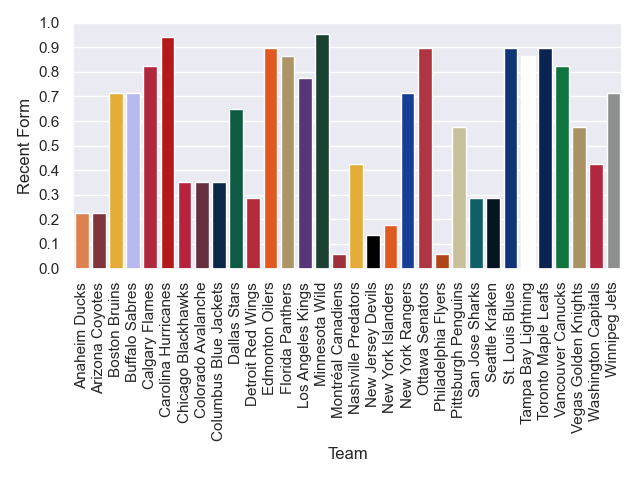
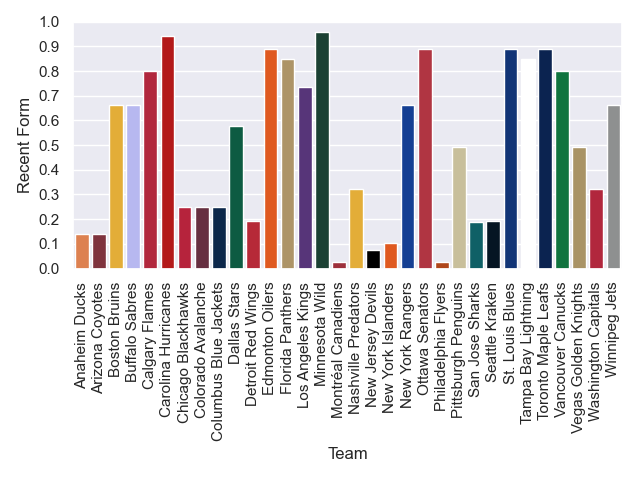
Update Recent form metric to use dynamic sigmoid. Update output files with correct spelling of Montreal

diff --git a/TeamEngine.py b/TeamEngine.py
@@ -15,7 +15,7 @@ from CSV_Writer import *
 from Metrics.Strength_of_Schedule import *
 from Metrics.Win_Rating import *
 from Metrics.Scoring_Rating import *
-from Metrics.Special_Teams import get_special_teams_dict, special_teams_combine
+from Metrics.Special_Teams import special_teams_get_dict, special_teams_combine
 from Metrics.Clutch import *
 from Metrics.Recent_Form import *
 from Metrics.Sigmoid_Correction import apply_sigmoid_correction
@@ -181,6 +181,14 @@ def calculate_strenght_of_schedule() -> None:
         ["Team", "Strength of Schedule"], 1.0, 0.0, sigmiod_ticks,
         "Graphs/Strength_of_Schedule/strenght_of_schedule_final.png")
 
+    # update the trend file
+    update_trend_file("Output_Files/Trend_Files/StrengthOfSchedule.csv",
+        strength_of_schedule)
+    plot_trend_set("Output_Files/Trend_Files/StrengthOfSchedule.csv",
+        ["Rating Date", "Strength of Schedule"], 1.1, -.1,
+        sigmiod_ticks,
+        "Graphs/Strength_of_Schedule/strength_of_schedule_trend.png")
+
 
 def calculate_win_rating() -> None:
 
@@ -191,6 +199,13 @@ def calculate_win_rating() -> None:
     plot_data_set("Output_Files/Instance_Files/WinRating.csv",
         ["Team", "Win Rating"], 1.0, 0.0, sigmiod_ticks,
         "Graphs/Win_Rating/win_rating_final.png")
+
+    # update the trend file
+    update_trend_file("Output_Files/Trend_Files/WinRating.csv",
+        win_rating)
+    plot_trend_set("Output_Files/Trend_Files/WinRating.csv",
+        ["Rating Date", "Win Rating"], 1.1, -.1, sigmiod_ticks,
+        "Graphs/Win_Rating/win_rating_trend.png")
 
 
 def calculate_scoring_rating() -> None:
@@ -235,27 +250,35 @@ def calculate_scoring_rating() -> None:
         ["Team", "Scoring Rating"], 1.0, 0.0, sigmiod_ticks,
         "Graphs/Scoring_Rating/scoring_rating_final.png")
 
+    # update the trend file
+    update_trend_file("Output_Files/Trend_Files/ScoringRating.csv",
+        scoring_rating)
+    plot_trend_set("Output_Files/Trend_Files/ScoringRating.csv",
+        ["Rating Date", "Scoring Rating"], 1.1, -.1, sigmiod_ticks,
+        "Graphs/Scoring_rating/scoring_rating_trend.png")
+
 
 def calculate_special_teams_rating() -> None:
 
     # combine special teams and plot
     special_teams_combine()
     write_out_file("Output_Files/Instance_Files/SpecialTeams.csv",
-        ["Team", "Special Teams"], get_special_teams_dict())
+        ["Team", "Special Teams"], special_teams_get_dict())
     plot_data_set("Output_Files/Instance_Files/SpecialTeams.csv",
         ["Team", "Special Teams"], 130, 50, [],
         "Graphs/Special_Teams/special_teams_combined.png")
 
     # apply sigmoid correction and plot
-    special_teams = apply_sigmoid_correction(get_special_teams_dict())
+    special_teams = apply_sigmoid_correction(special_teams_get_dict())
     write_out_file("Output_Files/Instance_Files/SpecialTeams.csv",
         ["Team", "Special Teams"], special_teams)
     plot_data_set("Output_Files/Instance_Files/SpecialTeams.csv",
         ["Team", "Special Teams"], 1.0, 0.0, sigmiod_ticks,
         "Graphs/Special_Teams/special_teams_final.png")
 
+    # update the trend file
     update_trend_file("Output_Files/Trend_Files/SpecialTeams.csv",
-        get_special_teams_dict())
+        special_teams_get_dict())
     plot_trend_set("Output_Files/Trend_Files/SpecialTeams.csv",
         ["Rating Date", "Special Teams"], 1.1, -.1, sigmiod_ticks,
         "Graphs/Special_Teams/special_teams_trend.png")
@@ -277,25 +300,39 @@ def calculate_clutch_rating() -> None:
         1.0, 0.0, sigmiod_ticks,
         "Graphs/Clutch_Rating/clutch_rating_final.png")
 
+    # update the trend file
+    update_trend_file("Output_Files/Trend_Files/ClutchRating.csv",
+        clutch_rating)
+    plot_trend_set("Output_Files/Trend_Files/ClutchRating.csv",
+        ["Rating Date", "Clutch Rating"], 1.1, -.1, sigmiod_ticks,
+        "Graphs/Clutch_Rating/clutch_rating_trend.png")
+
 
 def calculate_recent_form() -> None:
     
     # first calculate the recent form raw rating and plot
     recent_form_calculate_rating()
     write_out_file("Output_Files/Instance_Files/RecentForm.csv",
-        ["Team", "Recent Form"], recent_form_rating)
+        ["Team", "Recent Form"], recent_form_get_dict())
     plot_data_set("Output_Files/Instance_Files/RecentForm.csv",
         ["Team", "Recent Form"], 10.0, 0,
         [0, 1, 2, 3, 4, 5, 6, 7, 8, 9, 10],
         "Graphs/Recent_Form/recent_form_base.png")
 
     # now apply the sigmoid correction and plot
-    recent_form_apply_sigmoid()
+    recent_form_rating = apply_sigmoid_correction(recent_form_get_dict())
     write_out_file("Output_Files/Instance_Files/RecentForm.csv",
         ["Team", "Recent Form"], recent_form_rating)
     plot_data_set("Output_Files/Instance_Files/RecentForm.csv",
         ["Team", "Recent Form"], 1.0, 0.0, sigmiod_ticks,
         "Graphs/Recent_Form/recent_form_final.png")
+
+    # update the trend file
+    update_trend_file("Output_Files/Trend_Files/RecentForm.csv",
+        recent_form_rating)
+    plot_trend_set("Output_Files/Trend_Files/RecentForm.csv",
+        ["Rating Date", "Recent Form"], 1.1, -.1, sigmiod_ticks,
+        "Graphs/Recent_Form/recent_form_trend.png")
 
 '''
 Function to create the combined set of all metrics into one ranking score
@@ -409,53 +446,10 @@ if __name__ == "__main__":
             # combine all factors and plot the total rankings
             combine_all_factors()
 
-            # Now update all trend files
-            # strength of schedule
-            update_trend_file("Output_Files/Trend_Files/StrengthOfSchedule.csv",
-                strength_of_schedule)
-            plot_trend_set("Output_Files/Trend_Files/StrengthOfSchedule.csv",
-                ["Rating Date", "Strength of Schedule"], 1.1, -.1,
-                sigmiod_ticks,
-                "Graphs/Strength_of_Schedule/strength_of_schedule_trend.png")
-
-            # special teams
-            update_trend_file("Output_Files/Trend_Files/SpecialTeams.csv",
-                get_special_teams_dict())
-            plot_trend_set("Output_Files/Trend_Files/SpecialTeams.csv",
-                ["Rating Date", "Special Teams"], 1.1, -.1, sigmiod_ticks,
-                "Graphs/Special_Teams/special_teams_trend.png")
-
-            # clutch rating
-            update_trend_file("Output_Files/Trend_Files/ClutchRating.csv",
-                clutch_rating)
-            plot_trend_set("Output_Files/Trend_Files/ClutchRating.csv",
-                ["Rating Date", "Clutch Rating"], 1.1, -.1, sigmiod_ticks,
-                "Graphs/Clutch_Rating/clutch_rating_trend.png")
-
-            # win rating
-            update_trend_file("Output_Files/Trend_Files/WinRating.csv",
-                win_rating)
-            plot_trend_set("Output_Files/Trend_Files/WinRating.csv",
-                ["Rating Date", "Win Rating"], 1.1, -.1, sigmiod_ticks,
-                "Graphs/Win_Rating/win_rating_trend.png")
-
-            # scoring rating
-            update_trend_file("Output_Files/Trend_Files/ScoringRating.csv",
-                scoring_rating)
-            plot_trend_set("Output_Files/Trend_Files/ScoringRating.csv",
-                ["Rating Date", "Scoring Rating"], 1.1, -.1, sigmiod_ticks,
-                "Graphs/Scoring_rating/scoring_rating_trend.png")
-
-            # recent form
-            update_trend_file("Output_Files/Trend_Files/RecentForm.csv",
-                recent_form_rating)
-            plot_trend_set("Output_Files/Trend_Files/RecentForm.csv",
-                ["Rating Date", "Recent Form"], 1.1, -.1, sigmiod_ticks,
-                "Graphs/Recent_Form/recent_form_trend.png")
-
-            # write out and plot all trend files\
+            # write out and plot all high level trend files
             # ratings score
-            update_trend_file("Output_Files/Trend_Files/RatingScore.csv", total_rating)
+            update_trend_file("Output_Files/Trend_Files/RatingScore.csv",
+                total_rating)
             plot_trend_set("Output_Files/Trend_Files/RatingScore.csv",
                 ["Rating Date", "Rating Score"], 1, 0, sigmiod_ticks,
                 "Graphs/Final_Rating_Score/rating_score_trend.png")

diff --git a/Metrics/Recent_Form.py b/Metrics/Recent_Form.py
@@ -1,6 +1,5 @@
 import requests
 import json
-from math import exp
 
 recent_form_rating = {
     'Anaheim Ducks' : 0,
@@ -38,6 +37,10 @@ recent_form_rating = {
 }
 
 
+def recent_form_get_dict() -> dict:
+    return recent_form_rating
+
+
 def recent_form_get_data() -> dict:
     records_url = \
         'https://statsapi.web.nhl.com/api/v1/standings?expand=standings.record'
@@ -67,15 +70,18 @@ def recent_form_calculate_rating() -> None:
         recent_form_rating[team] = float(wins) + (float(ot) * 0.333)
 
 
-def recent_form_apply_sigmoid() -> None:
-    for team in recent_form_rating.keys():
-        recent_form_rating[team] = \
-            1/(1 + exp(-(0.92 * (recent_form_rating[team] - 5))))
-
-
 if __name__ == "__main__":
+
+    # localized import only for this file
+    from Sigmoid_Correction import apply_sigmoid_correction
+
+    # combine and scale wins + OT wins to get the rating form score for
+    # the last ten games
     recent_form_calculate_rating()
-    recent_form_apply_sigmoid()
-    print("Recent Form:")
+    print("Recent Form (uncorrected):")
+    for team in recent_form_rating.keys() :
+        print("\t" + team + '=' + str(recent_form_rating[team]))
+    recent_form_rating = apply_sigmoid_correction(recent_form_rating)
+    print("Recent Form (corrected):")
     for team in recent_form_rating.keys() :
         print("\t" + team + '=' + str(recent_form_rating[team]))

diff --git a/Metrics/Special_Teams.py b/Metrics/Special_Teams.py
@@ -37,7 +37,7 @@ special_teams = {
 }
 
 
-def get_special_teams_dict() -> dict:
+def special_teams_get_dict() -> dict:
     return special_teams
 
 
@@ -71,10 +71,10 @@ if __name__ == "__main__":
 
     # combine PP and PK ratings to get the full metric of Special Teams
     special_teams_combine()
-    print("Special Teams Ratings:")
+    print("Special Teams Ratings (uncorrected):")
     for team in special_teams.keys():
         print("\t" + team + '=' + str(special_teams[team]))
     special_teams = apply_sigmoid_correction(special_teams)
-    print("Special Teams Ratings:")
+    print("Special Teams Ratings (corrected):")
     for team in special_teams.keys():
         print("\t" + team + '=' + str(special_teams[team]))
